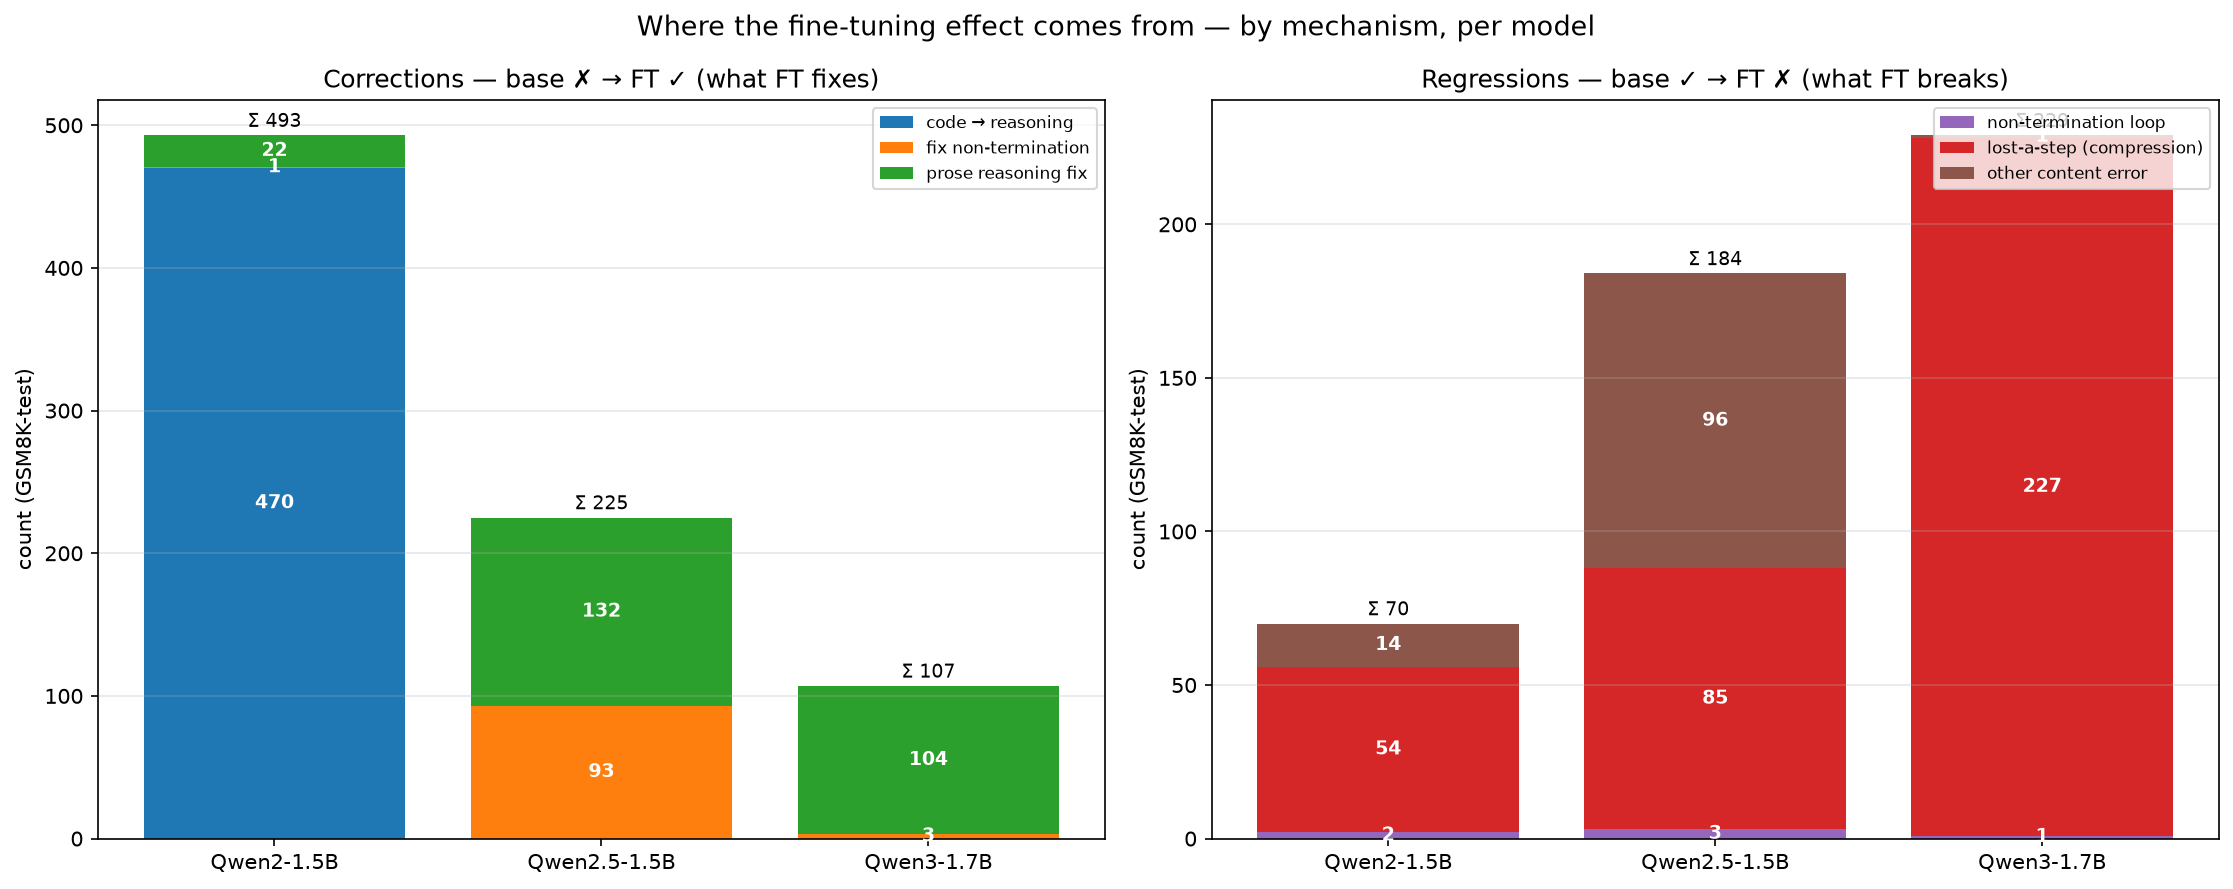
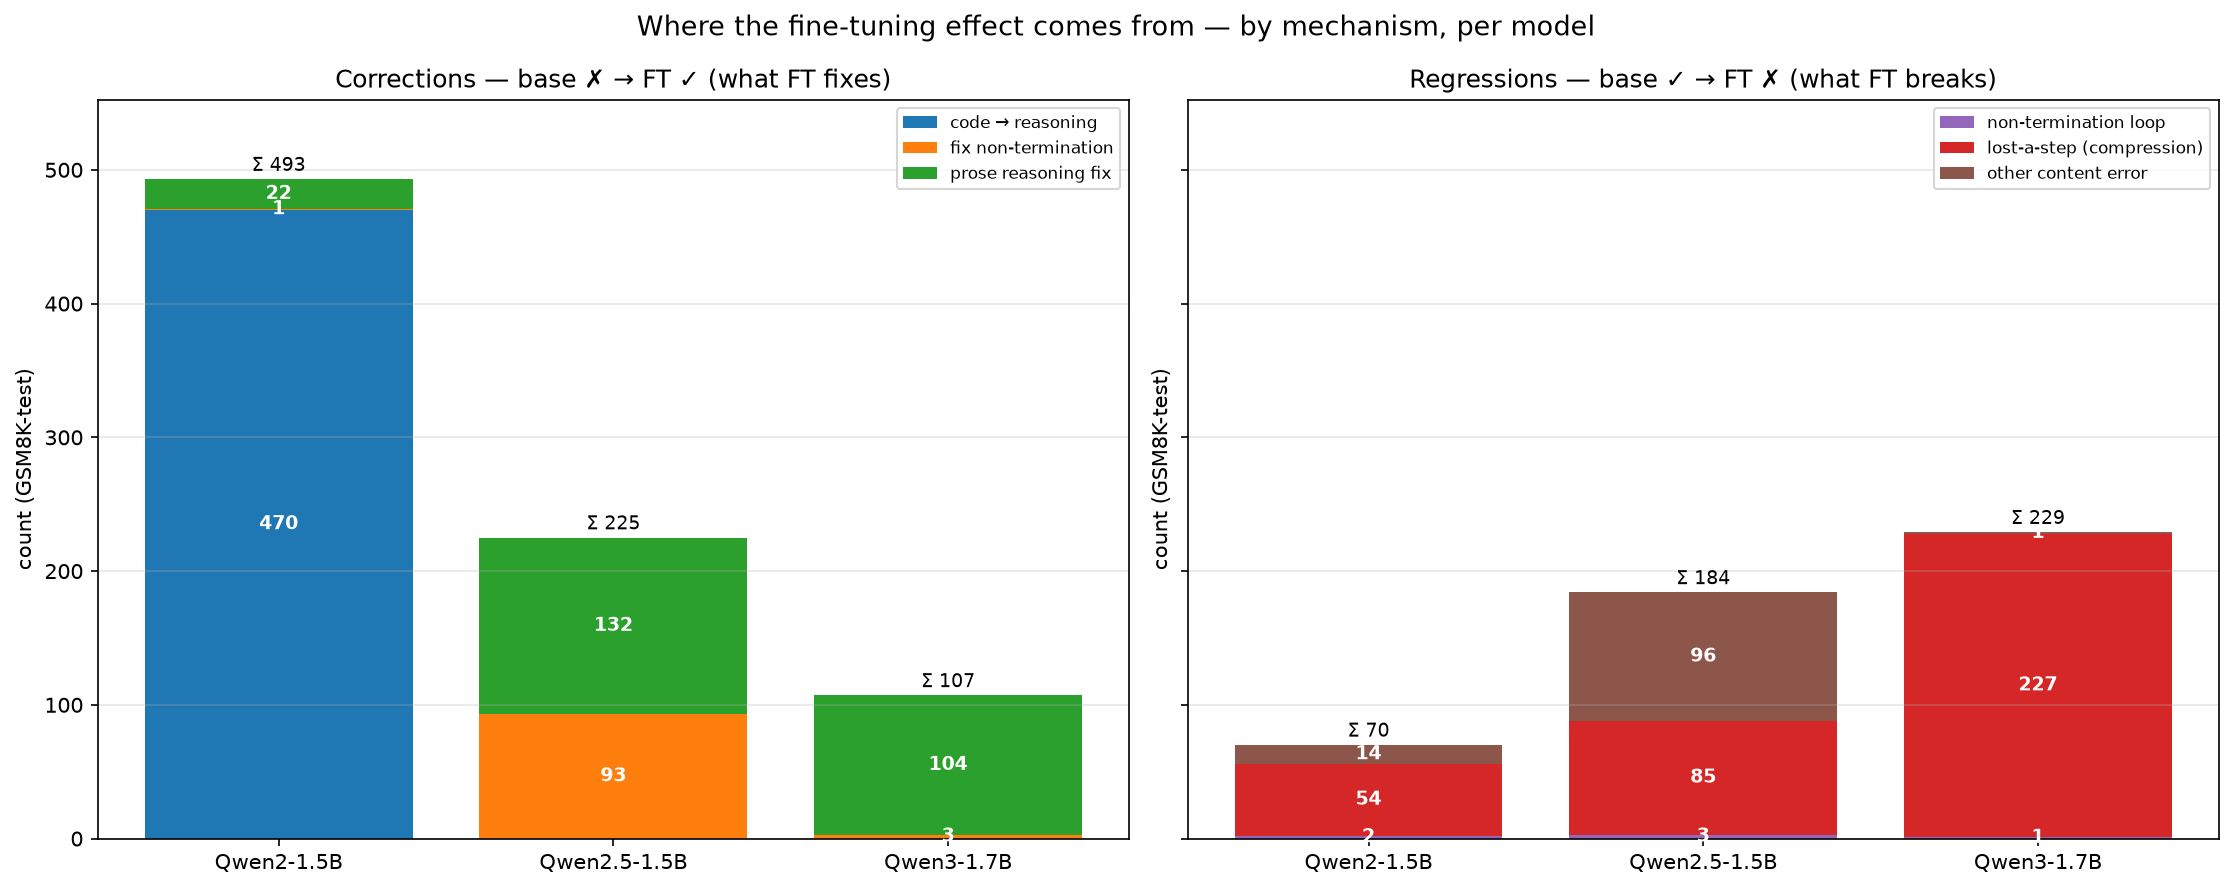
Share y-axis across FT correction/regression panels
The corrections and regressions panels previously used independent
y-scales, which visually inflated the (smaller) regression counts
relative to the (much larger) correction counts. Put both panels on a
shared y-axis so bar heights are directly comparable across the two.

diff --git a/scripts/plot_ft_analysis.py b/scripts/plot_ft_analysis.py
@@ -135,7 +135,13 @@ def plot_categories() -> None:
     labels = [MODELS[m] for m in models]
     x = np.arange(len(models))
 
-    fig, (ax1, ax2) = plt.subplots(1, 2, figsize=(15, 6), sharey=False)
+    fig, (ax1, ax2) = plt.subplots(1, 2, figsize=(15, 6), sharey=True)
+    # Shared y-scale so the two panels are directly comparable in bar height
+    # (corrections dwarf regressions; on independent axes that contrast is lost).
+    y_top = max(
+        max(allc[m]["n_corrections"] for m in models),
+        max(allc[m]["n_regressions"] for m in models),
+    ) * 1.12
 
     # corrections (stacked)
     bottom = np.zeros(len(models))
@@ -176,6 +182,7 @@ def plot_categories() -> None:
     ax2.set_title("Regressions — base ✓ → FT ✗ (what FT breaks)")
     ax2.legend(fontsize=8, loc="upper right")
     ax2.grid(axis="y", alpha=0.3)
+    ax1.set_ylim(0, y_top)
 
     fig.suptitle("Where the fine-tuning effect comes from — by mechanism, per model",
                  fontsize=13)